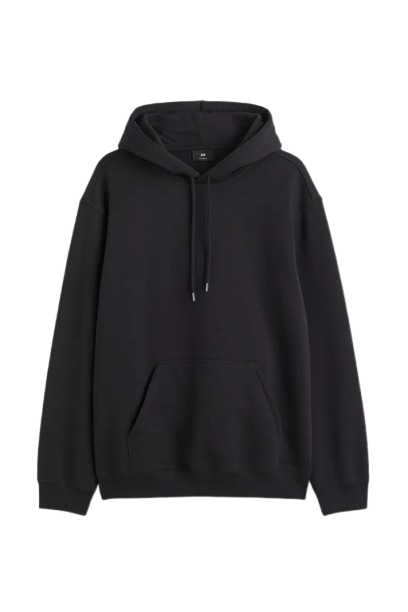
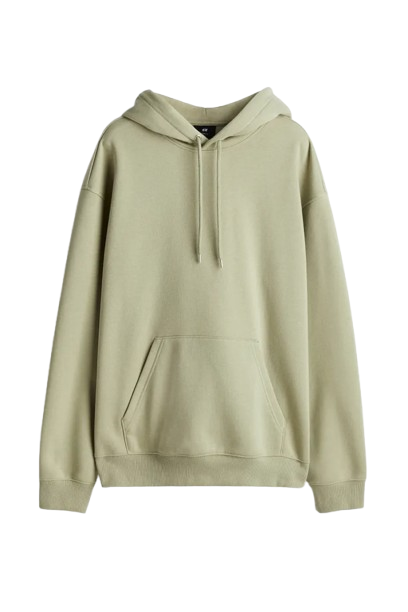
Updated the product image with brighter colours and increased the size of the product image

diff --git a/client/src/customer/Pages/Home.css b/client/src/customer/Pages/Home.css
@@ -121,7 +121,7 @@ h1 {
 }
 
 .product-image {
-    max-width: 70%;
+    max-width: 100%;
     height: auto;
 }
 
